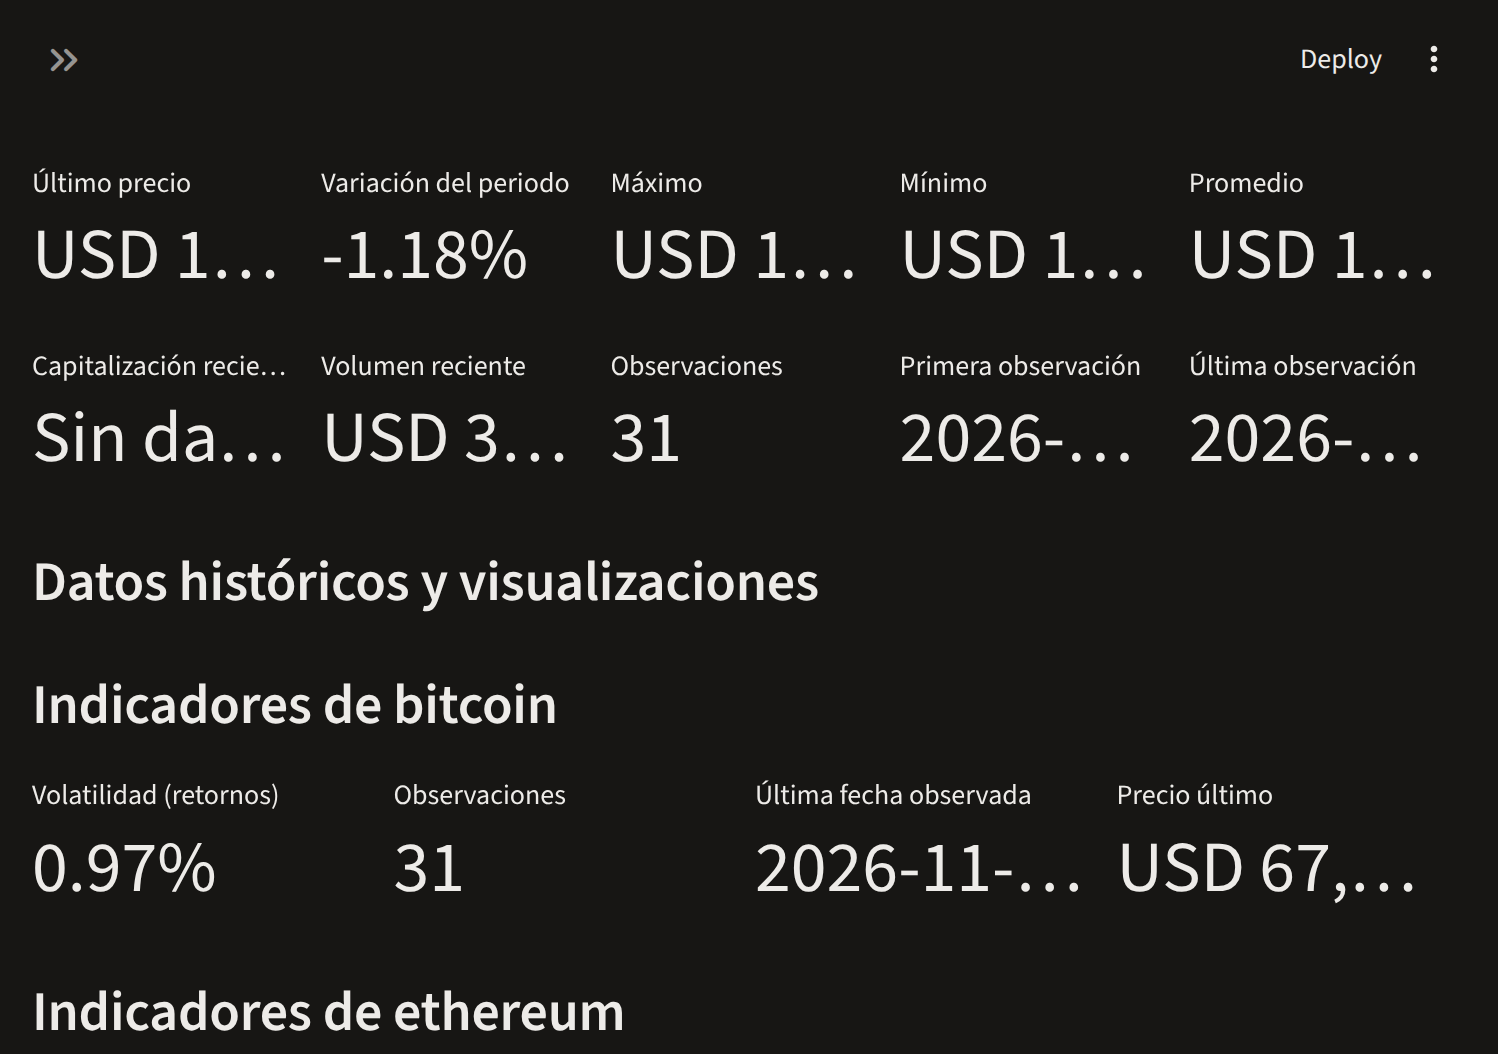
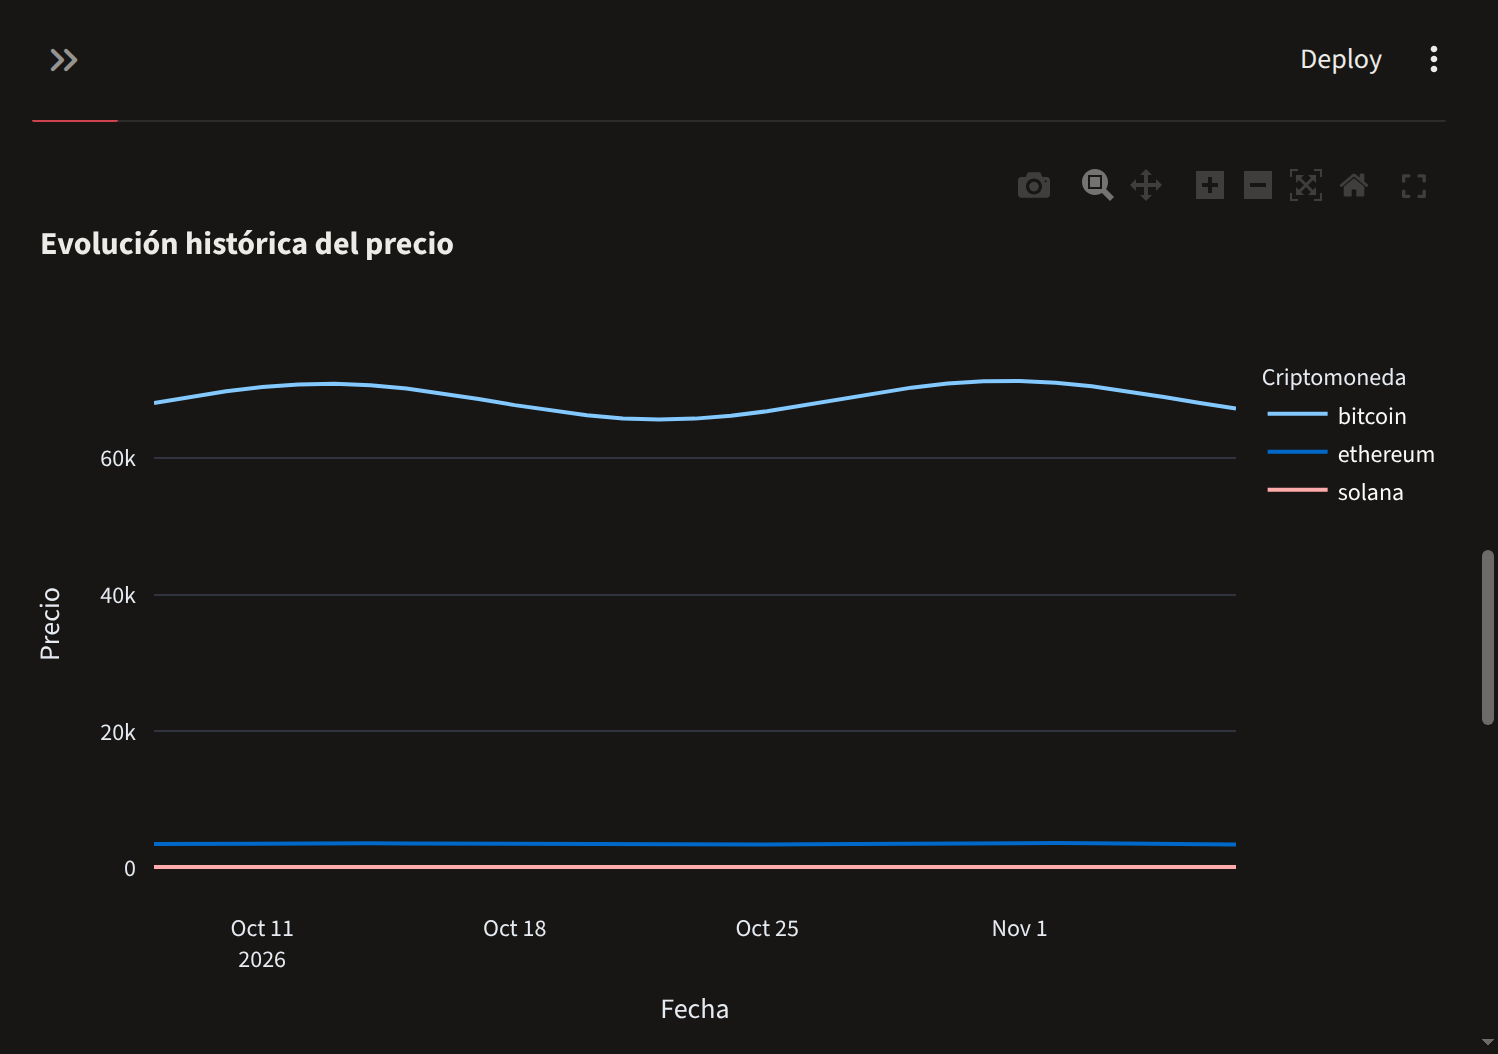
feats descripcion mejorada

diff --git a/README.md b/README.md
@@ -31,21 +31,33 @@ de ingeniería de datos pequeño, trazable y funcional.
 
 ## 2. Producto funcionando
 
-### Captura del dashboard
+### Resumen e indicadores
 
-La siguiente imagen fue tomada con FastAPI y Streamlit ejecutándose. Muestra
-los activos seleccionados, el estado de los servicios, las métricas del
-periodo y las visualizaciones históricas.
+Esta captura muestra el valor principal del producto: métricas calculadas sobre
+el periodo seleccionado para cada activo.
 
-![Dashboard de CryptoInsight funcionando](./docs/dashboard.png)
+![Resumen e indicadores de CryptoInsight](./docs/dashboard-resumen.png)
 
-### GIF del flujo de análisis
+### Gráficas de análisis
+
+La sección de gráficas permite observar precio, promedio móvil, volumen y
+rendimientos sin revisar los registros uno por uno.
+
+![Gráficas de CryptoInsight](./docs/dashboard-graficas.png)
+
+### Tabla histórica
+
+La tabla permite inspeccionar los registros procesados y descargar el resultado
+en CSV para continuar el análisis.
+
+![Tabla histórica de CryptoInsight](./docs/dashboard-tabla.png)
+
+### GIF del flujo completo
 
 ![Recorrido del dashboard de CryptoInsight](./docs/dashboard-demo.gif)
 
-El recorrido visual resume el uso del producto: seleccionar activos y fechas,
-consultar el resumen calculado y revisar las gráficas y la tabla histórica.
-Para reproducirlo localmente:
+El GIF recorre las tres vistas útiles del producto: resumen, gráficas y tabla.
+Para reproducir la demostración:
 
 ```bash
 ./run-mvp.sh
@@ -314,8 +326,10 @@ crypto-dashboard/
     ├── charts.py               Gráficas Plotly
     └── indicators.py           Indicadores de análisis
 docs/
-    ├── dashboard.png           Captura real del tablero
-    ├── dashboard-demo.gif      Recorrido visual del producto
+    ├── dashboard-resumen.png  Métricas e indicadores
+    ├── dashboard-graficas.png Gráficas de análisis
+    ├── dashboard-tabla.png    Tabla histórica
+    ├── dashboard-demo.gif     Recorrido visual del producto
     └── index.html              Portada de GitHub Pages
 compose.yaml                    Despliegue con Docker Compose
 run-mvp.sh                      Arranque local
